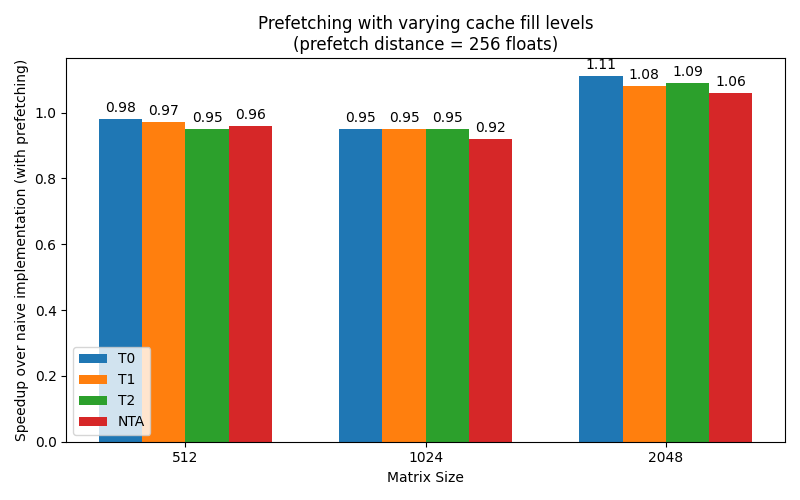
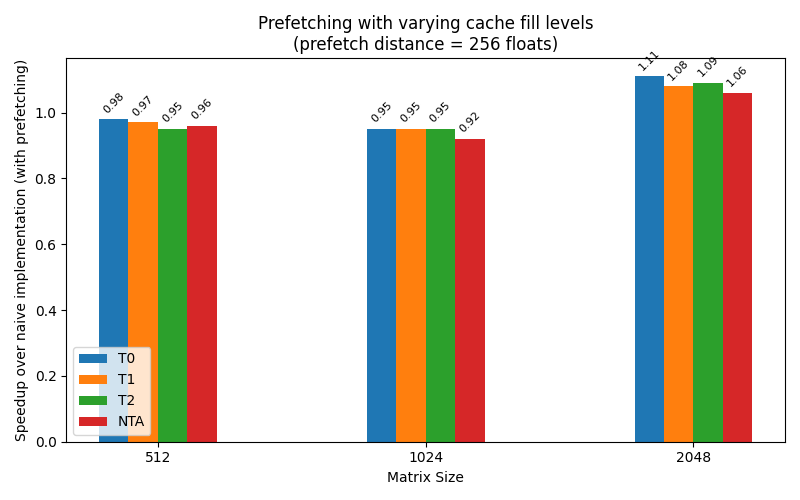
task 2 final

Changed region(s): [[0.7188, 0.12, 0.9375, 0.93], [0.125, 0.18, 0.3438, 0.93], [0.4062, 0.21, 0.6562, 0.9]]

diff --git a/task2/src/matmul_prefetch.cpp b/task2/src/matmul_prefetch.cpp
@@ -5,7 +5,7 @@
 void matmul_prefetch(const float* A, const float* B, float* C,
                      int M, int N, int K, int lda, int ldb, int ldc) {
 
-    constexpr int PF_DIST = 256;
+    constexpr int PF_DIST = 1024;
     for (int i = 0; i < M; ++i) {
         const float* a = A + static_cast<long>(i) * lda;
         for (int j = 0; j < N; ++j) {
